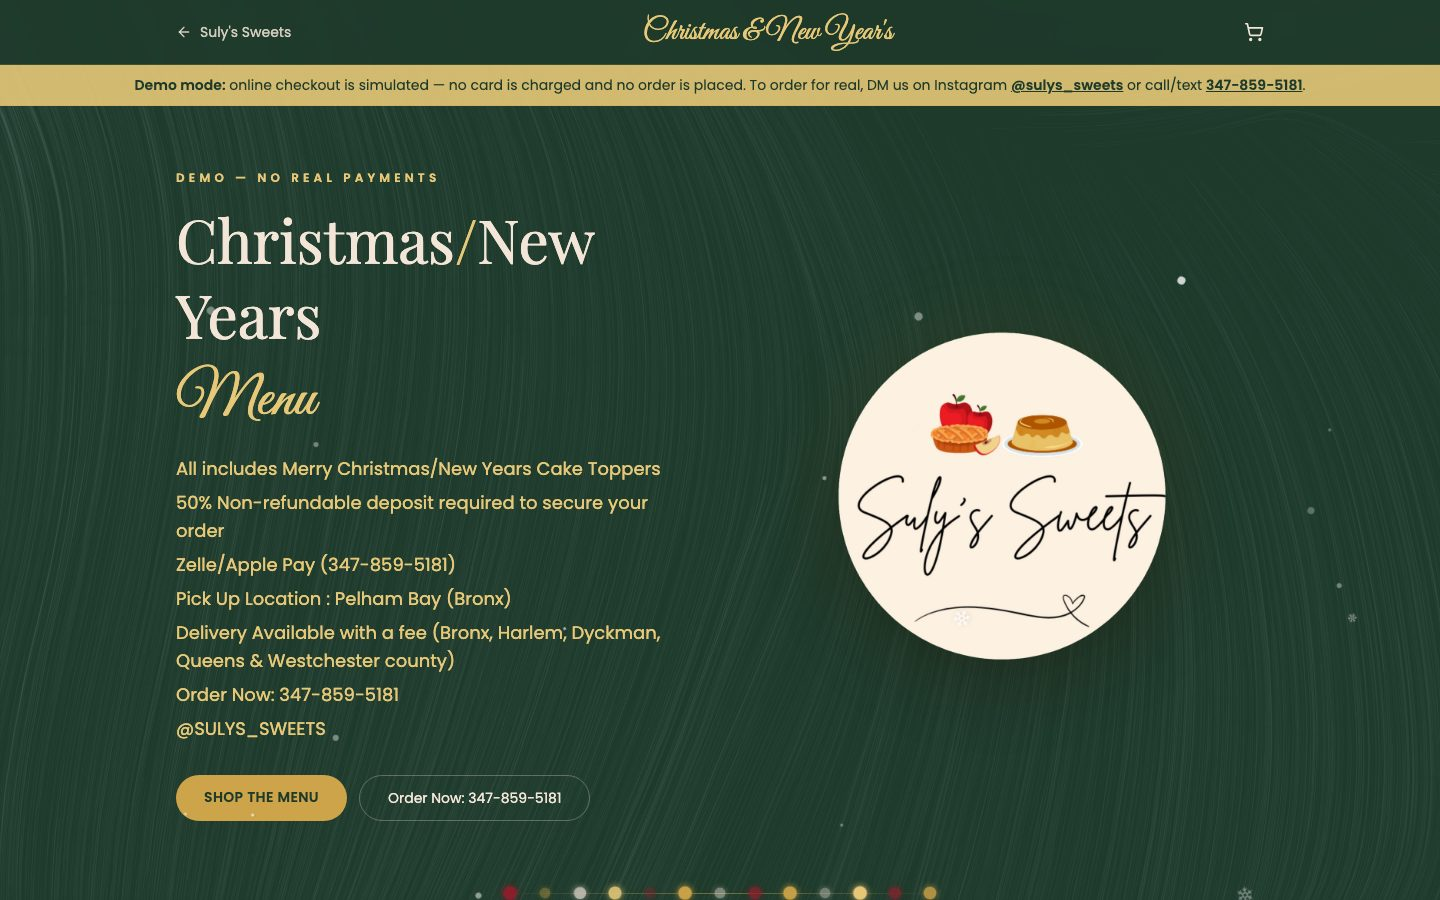
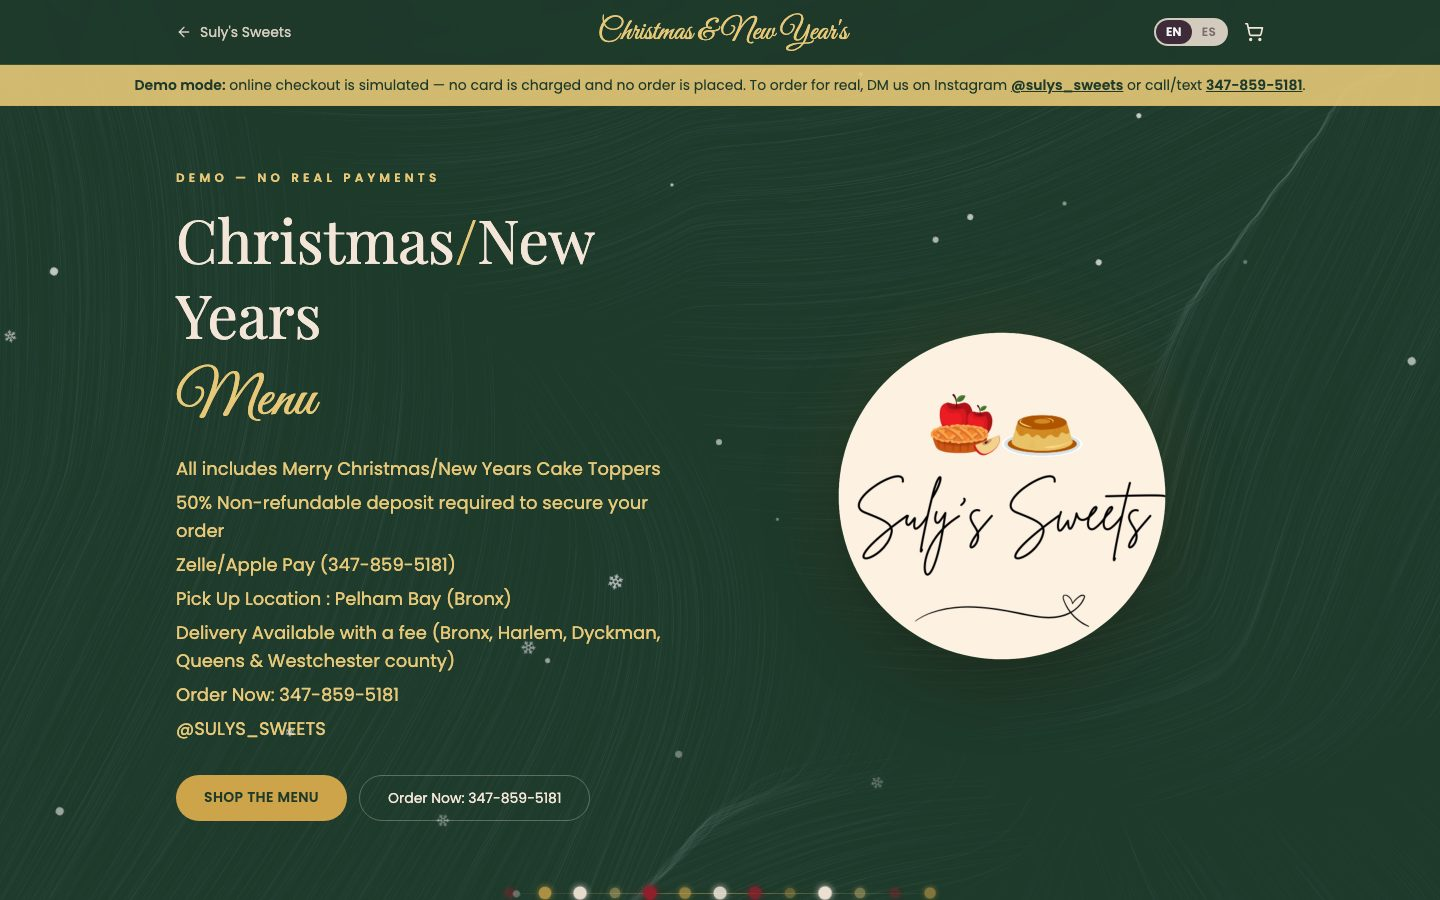
README: badges, Lighthouse scores, tests, new screenshots
Add CI/test/Lighthouse badges, a Lighthouse table measured on the live
site, a test overview, two new write-ups (the $0 bug the tests caught,
mobile performance), and refreshed screenshots including the Spanish
confirmation page. Correct two claims: only the SMS receipt is
translated, and the server ignores browser-sent prices.

diff --git a/README.md b/README.md
@@ -1,5 +1,10 @@
 # Suly's Sweets — Bakery Website & Holiday Ordering App
 
+[![CI](https://github.com/WebDesign-MultiMedia/SulysSweets/actions/workflows/ci.yml/badge.svg)](https://github.com/WebDesign-MultiMedia/SulysSweets/actions/workflows/ci.yml)
+![Lighthouse accessibility 100](https://img.shields.io/badge/Lighthouse%20accessibility-100-brightgreen)
+![Lighthouse desktop performance 98](https://img.shields.io/badge/Lighthouse%20performance%20(desktop)-98-brightgreen)
+![Tests 42 passing](https://img.shields.io/badge/tests-42%20passing-brightgreen)
+
 **Live site:** https://sulys-sweets.vercel.app
 
 A production-style, bilingual (English / Español) website for **Suly's Sweets**, a home bakery in Pelham Bay, Bronx, NY that makes custom cakes, cupcakes, chocolate-covered strawberries and dessert tables. It is a real client project. It has a marketing site and a full **holiday pre-order web app** with a cart, Stripe Checkout (50% deposit), and automatic email and SMS receipts.
@@ -14,9 +19,9 @@ A production-style, bilingual (English / Español) website for **Suly's Sweets**
 | --- | --- | --- |
 | ![Holiday ordering page with demo-mode banner](docs/screenshots/holiday-menu-desktop.jpg) | ![Cart drawer with pickup scheduling, contact info and SMS consent](docs/screenshots/cart-desktop.jpg) | ![Order confirmation with receipt and resend buttons](docs/screenshots/confirmation-desktop.jpg) |
 
-| Menu | Gallery |
-| --- | --- |
-| ![Menu section with starting prices](docs/screenshots/menu-desktop.jpg) | ![Gallery of past cakes](docs/screenshots/gallery-desktop.jpg) |
+| Menu | Gallery | Confirmation in Spanish |
+| --- | --- | --- |
+| ![Menu section with starting prices](docs/screenshots/menu-desktop.jpg) | ![Gallery of past cakes](docs/screenshots/gallery-desktop.jpg) | ![Order confirmation in Spanish](docs/screenshots/confirmation-spanish.jpg) |
 
 <p align="center">
   <img src="docs/screenshots/home-mobile.jpg" alt="Home page on a phone" width="260" />
@@ -29,7 +34,7 @@ A production-style, bilingual (English / Español) website for **Suly's Sweets**
 ## What to try (2-minute tour)
 
 1. **Home page** (`/`): animated hero, gallery with a lightbox, the menu with prices, an Instagram section and a contact form.
-2. **Language toggle:** switch between English and Spanish. The main site, cart, errors, legal pages and SMS text are all translated.
+2. **Language toggle:** switch between English and Spanish (on the home page or the holiday menu). Every page, the cart, product names, errors, legal pages and the SMS receipt are translated.
 3. **Holiday menu** (`/holiday-order`): add items to the cart, choose pickup or delivery, pick a date and time, and opt in to text updates.
 4. **Checkout:** in demo mode you land on the order confirmation page with a sample receipt, "Resend email" and "Resend text" buttons.
 5. **Legal pages:** `/privacy` and `/terms`. These are the pages needed for SMS (A2P 10DLC) carrier registration.
@@ -39,7 +44,7 @@ A production-style, bilingual (English / Español) website for **Suly's Sweets**
 ## Features
 
 ### Customer experience
-- **Bilingual EN/ES** with a toggle that is remembered across pages. All copy lives in one translation file.
+- **Bilingual EN/ES** with a toggle that is remembered across pages. All copy lives in one translation file, and a test fails if any English text is missing its Spanish version.
 - **Modern, animated UI:** Vanta.js 3D backgrounds (lazy-loaded), Framer Motion scroll reveals, a scrolling marquee, a holiday theme with snowfall and a garland.
 - **Responsive from 360px phones to wide desktops**, with reduced-motion support.
 - **Gallery and lightbox** with zoomable product photos.
@@ -49,7 +54,7 @@ A production-style, bilingual (English / Español) website for **Suly's Sweets**
 ### Payments & messaging (serverless backend)
 - **Stripe Checkout:** the server re-prices every cart item from its own price list, so nobody can change prices in the browser.
 - **Stripe webhook** with signature verification sends receipts once the payment is confirmed.
-- **Email receipts** through Resend and **SMS receipts** through Twilio, in the customer's language.
+- **Email receipts** through Resend and **SMS receipts** through Twilio (the SMS is sent in the customer's language).
 - **Duplicate-proof receipts:** the send count and timestamps are stored on the Stripe session. Each channel is limited to 2 sends with a 60-second cooldown, and a send that fails is rolled back.
 - **SMS consent (TCPA / 10DLC):** an optional, unchecked opt-in checkbox. The consent, its timestamp, the policy version and the language are saved with the order. Texts are never sent without consent and always include STOP/HELP.
 - **Large-cart support:** order items are split across Stripe's 500-character metadata limit.
@@ -59,7 +64,9 @@ A production-style, bilingual (English / Español) website for **Suly's Sweets**
 ### Security & quality
 - Security headers set in `vercel.json` (`X-Content-Type-Options`, `X-Frame-Options`, `Referrer-Policy`, `Permissions-Policy`).
 - No secrets in the repo; every key is an environment variable (see `.env.example`).
-- **GitHub Actions CI** on every push: clean install, syntax check of every API function, production build, and `npm audit` for high-severity issues.
+- **42 automated tests** (Vitest) covering pricing, validation, SMS consent, receipt rate limiting and rollback, metadata chunking, and translation completeness. Stripe, Resend and Twilio are mocked, so tests never call real services.
+- **GitHub Actions CI** on every push: clean install, syntax check of every API function, tests, production build, and `npm audit` for high-severity issues.
+- **Lighthouse:** 100 accessibility, best practices and SEO on mobile and desktop; performance 98 on desktop and about 80 on mobile (see below).
 
 ---
 
@@ -76,7 +83,7 @@ A production-style, bilingual (English / Español) website for **Suly's Sweets**
 
 **3. Never trusting prices from the browser**
 - *Problem:* anything in the cart can be edited in DevTools.
-- *Approach:* the browser sends only product IDs, options and quantities. `/api/checkout` looks up every price in the server's own menu, caps quantities, and rejects unknown products before creating the Stripe session.
+- *Approach:* `/api/checkout` ignores any price the browser sends. It uses only the product IDs, options and quantities, looks up every price in the server's own menu, caps quantities, and rejects unknown products or options before creating the Stripe session.
 
 **4. A demo that never hides real failures**
 - *Problem:* the site needs to be a clickable demo without live keys, but an earlier version showed a fake "Thank you!" page whenever checkout failed for *any* reason. A real customer could think they'd ordered when they hadn't.
@@ -89,6 +96,41 @@ A production-style, bilingual (English / Español) website for **Suly's Sweets**
 **6. Fitting big orders into Stripe metadata**
 - *Problem:* Stripe allows only 500 characters per metadata value, so a large cart overflowed and checkout failed.
 - *Approach:* the items are serialized and split across `items`, `items_1`, `items_2`, … and reassembled when the order is read back. A size limit returns a clear "cart too large" error instead of a crash.
+
+**7. A $0 bug that the tests caught**
+- *Problem:* while writing tests for checkout pricing, a test that sent a made-up size (for example `size: "fake"`) came back priced at **$0**. Next to a real item, that item would have been free.
+- *Approach:* `/api/checkout` now rejects any option that isn't on the menu. The test that found it stays in the suite, and it fails against the old code.
+
+**8. Making the phone version fast**
+- *Problem:* Lighthouse mobile scored 71, with the main content taking about 10 seconds to appear on a simulated phone connection. The page was downloading about 5 MB of images up front: a 941 KB logo shown at 40 px, and every cake photo, including ones in sections hidden on phones (browsers still fetch lazy images inside hidden sections).
+- *Approach:* phone sections are only put on the page once visited; the About slideshow keeps 3 slides on the page instead of 11; logos are resized (941 KB → 32 KB) and the hero photos converted to WebP (319 KB → 40 KB); the three.js background starts after the page has loaded; and the hero uses a CSS entrance animation so it paints on the first frame instead of waiting for JavaScript.
+- *Result:* mobile performance went from about 71 to about 80–85, and the first load on phones fetches 3 images instead of about 14. Accessibility went from 95 to 100 after raising footer text contrast and fixing the language toggle's accessible name.
+
+---
+
+## Lighthouse scores
+
+Measured on the live site with Lighthouse 12 (home page). Mobile numbers vary a few points between runs.
+
+| | Performance | Accessibility | Best practices | SEO |
+| --- | --- | --- | --- | --- |
+| Desktop | 98 | 100 | 100 | 100 |
+| Mobile (simulated slow 4G) | ~80 (78–85) | 100 | 100 | 100 |
+
+What still limits mobile performance: the site is a single-page React app, so content appears only after the JavaScript loads, and the remaining cake photos are large PNGs. Pre-rendering the home page and converting the rest of the photos to WebP would be the next steps.
+
+## Tests
+
+```bash
+npm test
+```
+
+| File | What it checks |
+| --- | --- |
+| `tests/checkout.test.js` | Server-side pricing, 50% deposit, ignoring browser prices, quantity cap, unknown products and options, input validation, demo-mode response, SMS consent recording |
+| `tests/resendReceipt.test.js` | Unpaid orders, no-consent SMS, 2-send limit, 60-second cooldown, reserve-then-send, rollback on provider failure, E.164 phone format and STOP/HELP wording |
+| `tests/stripeOrder.test.js` | Splitting items across 500-character metadata values and reading them back, session ID validation, consent parsing |
+| `tests/i18n.test.js` | English and Spanish have the same keys, every product has a Spanish name, Spanish date formatting |
 
 ---
 
@@ -104,6 +146,7 @@ A production-style, bilingual (English / Español) website for **Suly's Sweets**
 | Email | Resend |
 | SMS | Twilio |
 | i18n | Custom React context + translation dictionary (EN/ES) |
+| Testing | Vitest (with mocked Stripe, Resend and Twilio), Lighthouse |
 | Hosting & CI/CD | Vercel (auto-deploys from `main`), GitHub Actions |
 
 ---
@@ -142,6 +185,7 @@ src/
   i18n/              Language context + all EN/ES translations
   data/              Menu, holiday products, gallery, demo order
 public/              Images and logo
+tests/               Vitest test suite
 .github/workflows/   CI pipeline
 ```
 
@@ -153,6 +197,7 @@ public/              Images and logo
 npm install
 npm run dev        # front end at http://localhost:5173 (checkout falls back to demo mode)
 npm run build      # production build
+npm test           # run the test suite
 ```
 
 To run the `/api` functions locally as well, use the Vercel CLI:
